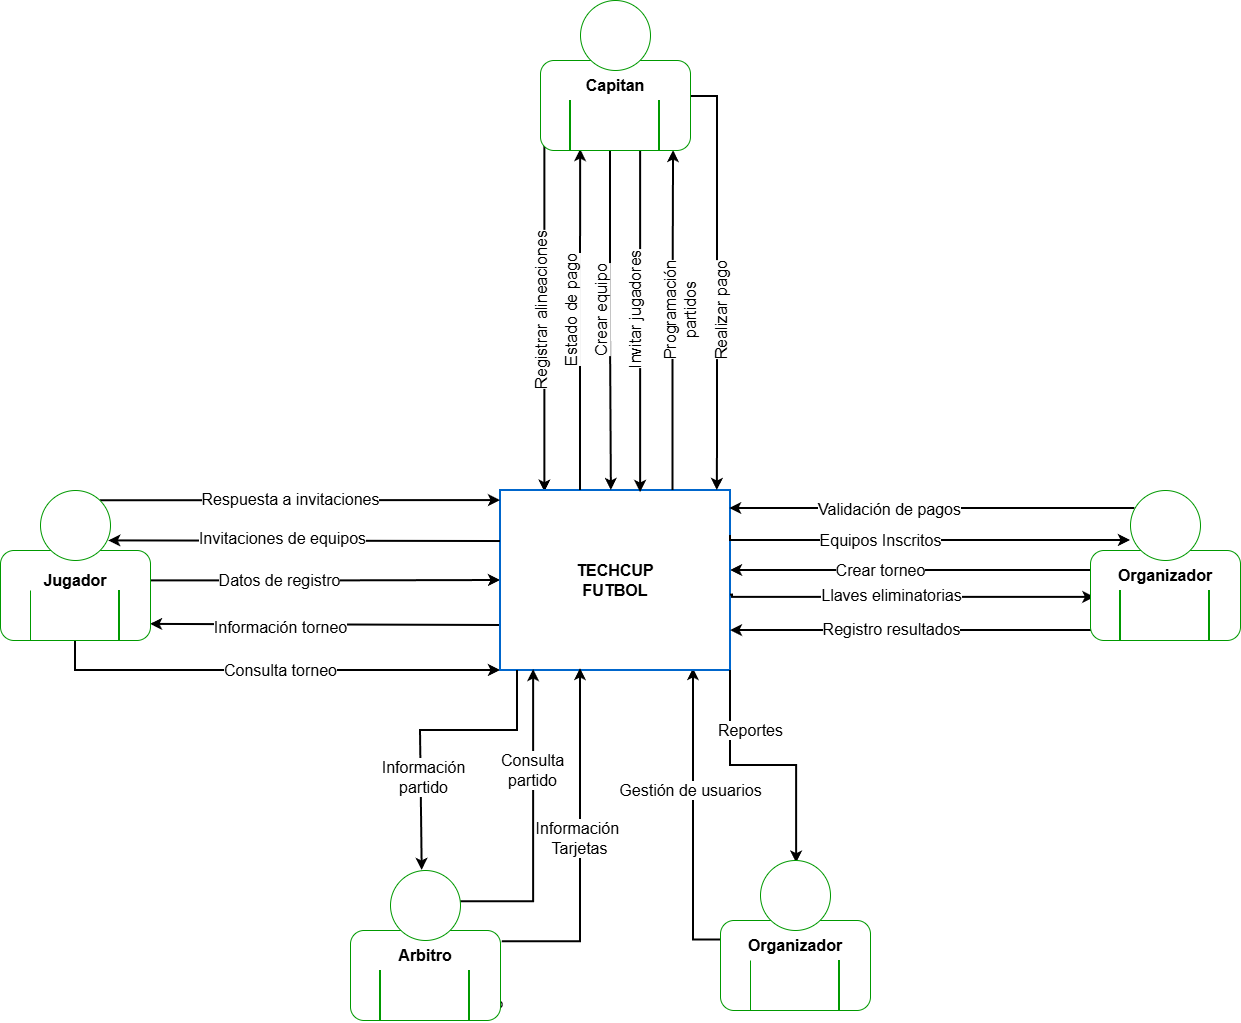
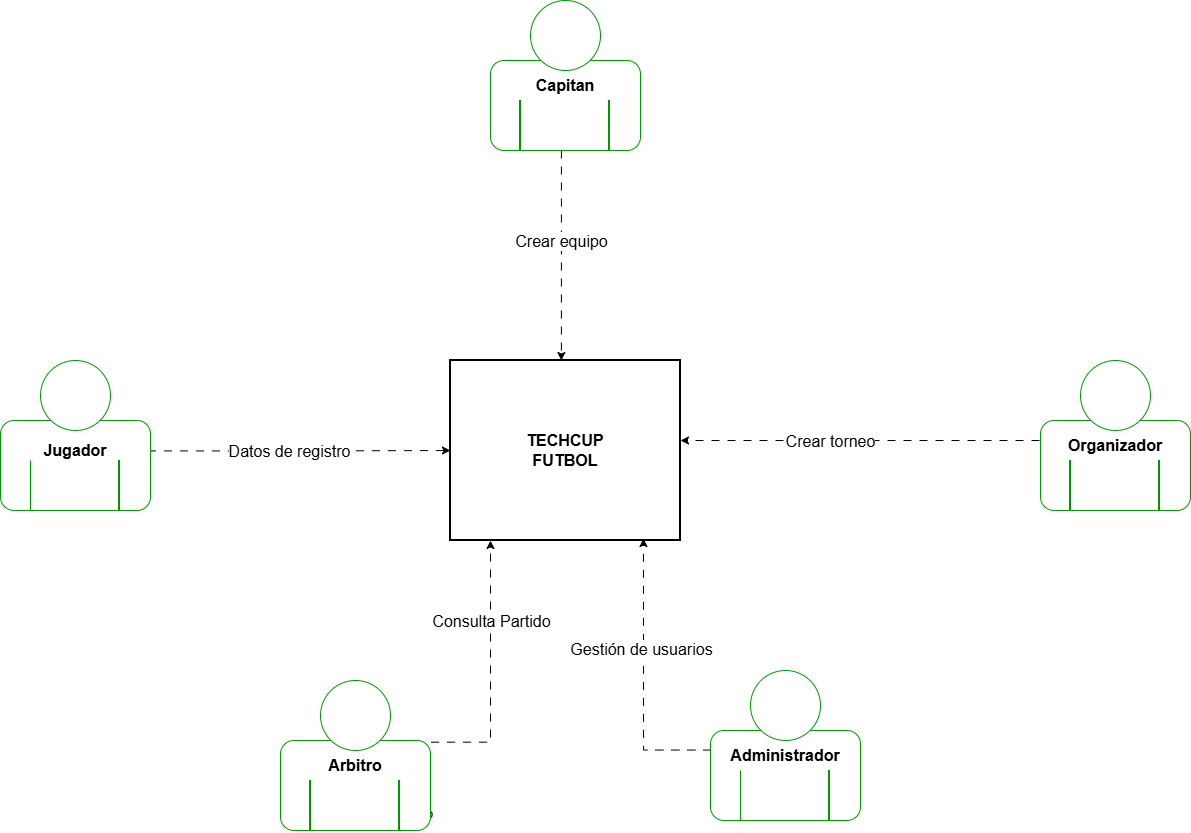
feat: Refactor diagrama de contexto y requisitos no funcionales

diff --git a/README.md b/README.md
@@ -136,37 +136,30 @@ fecha, hora, cancha y equipos participantes, permitiendo su consulta dentro del 
 
 **- No funcionales:**
 
-**- RNF01 – Seguridad y autenticación** El sistema debe autenticar a los usuarios según su tipo: correo institucional para 
-estudiantes, graduados y personal de la Escuela; correo Gmail para familiares. Debe implementarse control de roles y 
-permisos por tipo de actor.
+**- RNF01 – Auditoría** El sistema debe registrar un log de las acciones relevantes realizadas por los usuarios 
+(creación de equipos, aprobación de pagos, registro de resultados). Los registros deben conservarse durante todo el 
+período del torneo y ser accesibles únicamente por el administrador del sistema.
 
-**- RNF02 – Auditoría** El sistema debe registrar un log de las acciones relevantes realizadas por los usuarios (creación de 
-equipos, aprobación de pagos, registro de resultados, etc.) para trazabilidad.
+**- RNF02 – Usabilidad** Un usuario sin experiencia técnica avanzada debe ser capaz de completar el flujo de inscripción
+(registro, creación de perfil y unión a equipo) en un máximo de 10 minutos, sin requerir asistencia externa ni 
+documentación adicional.
 
-**- RNF03 – Arquitectura por capas** El backend debe desarrollarse en Spring Boot con separación clara en capas: 
-controladores, adaptadores, lógica de negocio y acceso a datos. La comunicación con el frontend se realizará mediante 
-una API REST.
+**- RNF03 – Disponibilidad** La plataforma debe garantizar una disponibilidad mínima del 95% durante el período activo 
+del torneo. En fechas críticas (cierre de inscripciones y registro de resultados) no deben presentarse interrupciones 
+planificadas.
 
-**- RNF05 – Seguridad de almacenamiento de contraseñas** Las contraseñas deben almacenarse utilizando un algoritmo de hashing
-seguro (por ejemplo, BCrypt), garantizando que no se almacenen en texto plano.
+**- RNF04 – Capacidad de carga** El sistema debe soportar al menos 200 usuarios simultáneos sin que el tiempo de 
+respuesta de las operaciones principales supere los 3 segundos, considerando la participación máxima esperada del torneo.
 
-**- RNF06 – Usabilidad** La plataforma debe ser lo suficientemente intuitiva para que estudiantes sin experiencia técnica 
-avanzada puedan inscribirse, unirse a equipos y consultar información del torneo sin asistencia externa.
+**- RNF05 – Compatibilidad** La aplicación debe ser compatible con las versiones estables actuales de Google Chrome, 
+Microsoft Edge y Mozilla Firefox, tanto en dispositivos de escritorio como móviles.
 
-**- RNF07 – Disponibilidad** La plataforma debe estar disponible durante todo el período del torneo, especialmente en fechas 
-clave como cierre de inscripciones y registro de resultados.
+**- RNF06 – Respaldo de información** La base de datos debe contar con respaldo automático diario. En caso de fallo, el 
+sistema debe poder restaurarse en un máximo de 24 horas con una pérdida de información no mayor a un día de operación.
 
-**- RNF08 – Escalabilidad básica** El sistema debe soportar la carga de todos los equipos participantes en un torneo semestral
-sin degradación notable del rendimiento.
-
-**- RNF09 – Compatibilidad** La aplicación debe ser compatible con las versiones actuales de los navegadores Google Chrome, 
-Microsoft Edge y Mozilla Firefox.
-
-**- RNF10 – Respaldo de información** La base de datos debe contar con respaldo automático diario para garantizar la 
-recuperación de información ante fallos del sistema.
-
-**- RNF11 – Escalabilidad básica** La arquitectura del sistema debe permitir aumentar la capacidad de usuarios concurrentes 
-mediante escalamiento vertical del servidor sin necesidad de rediseño estructural.
+**- RNF07 – Escalabilidad** La arquitectura del sistema debe permitir aumentar la capacidad de usuarios concurrentes 
+mediante escalamiento vertical del servidor sin necesidad de rediseño estructural, soportando al menos el doble de la 
+carga base sin cambios en el código.
 
 ## - Análisis de requerimientos
 
